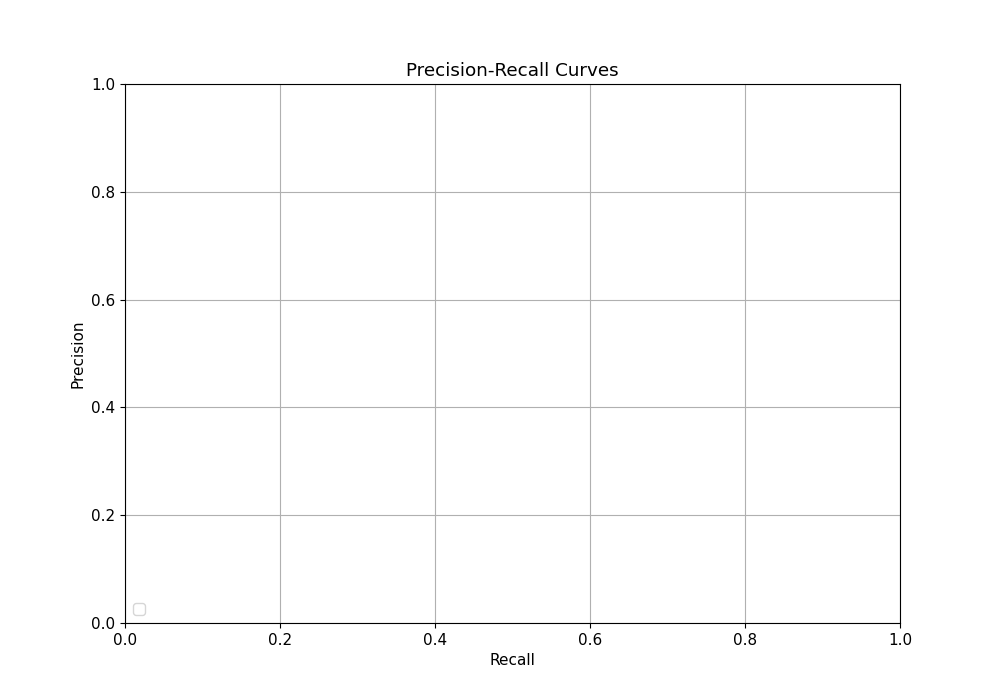
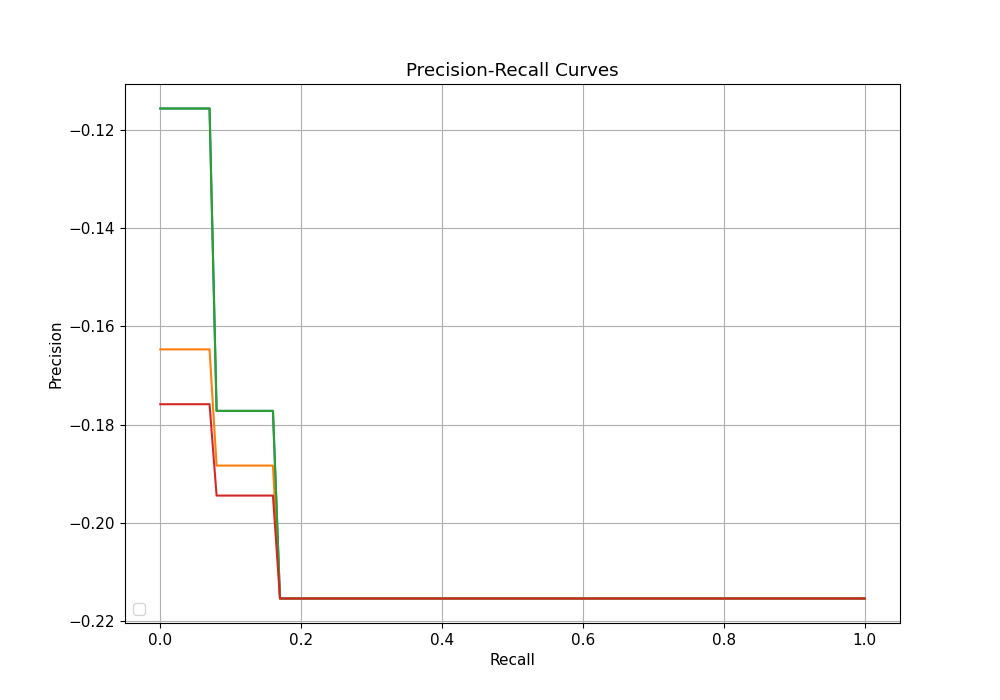
calculating f1 works

diff --git a/run_model.py b/run_model.py
@@ -164,7 +164,6 @@ class ObjectDetectorEnsemble:
             gt_paths = [os.path.join(gt_folder, f) for f in os.listdir(gt_folder) if f.endswith('.txt') or f.endswith('.xml')]
             bbox_list, label_list = [], []
             for file in gt_paths:
-                #ALREADY IN COCO FORMAT HERE
                 bboxes, labels = self.read_yolo_groundtruth_file(file)
                 bbox_list.append(bboxes)
                 label_list.append(labels)
@@ -273,22 +272,7 @@ class ObjectDetectorEnsemble:
         x_center = x_min + width / 2
         y_center = y_min + height / 2
 
-        return [x_center, y_center, width, height]
-
-    def denormalize_bboxes_array(self, bboxes_array, img_shapes):
-        denormalized_bboxes_array = []
-        for bboxes, (original_height, original_width) in zip(bboxes_array, img_shapes):
-            denormalized_bboxes = []
-            for bbox in bboxes:
-                x1, y1, x2, y2 = bbox
-                x1 = x1 * original_width
-                y1 = y1 * original_height
-                x2 = x2 * original_width
-                y2 = y2 * original_height
-                denormalized_bbox = [x1, y1, x2, y2]
-                denormalized_bboxes.append(denormalized_bbox)
-            denormalized_bboxes_array.append(np.array(denormalized_bboxes))
-        return denormalized_bboxes_array        
+        return [x_center, y_center, width, height]      
     
     #picks and runs ensemble on ONE img
     #should return the new bboxes, labels, and scores for that img TBC!!
@@ -377,12 +361,8 @@ class ObjectDetectorEnsemble:
                 label, x_center, y_center, width, height, score = int(data[0]), float(data[1]), float(data[2]), float(data[3]), float(data[4]), float(data[5])
                 
                 # Convert x_center, y_center, width, height to xmin, ymin, xmax, ymax
-                xmin = x_center - width / 2
-                ymin = y_center - height / 2
-                xmax = x_center + width / 2
-                ymax = y_center + height / 2
                 
-                boxes.append([xmin, ymin, xmax, ymax])
+                boxes.append([x_center, y_center, width, height])
                 scores.append(score)
                 labels.append(label)
         
@@ -520,14 +500,62 @@ class ObjectDetectorEnsemble:
         #print("Predictions:", len(dt_coco.dataset['annotations']))
         #print("Examples:", dt_coco.dataset['annotations'][:5])
         coco_eval = COCOeval(gt_coco, dt_coco, iouType='bbox')
+        coco_eval.params.iouThrs = np.linspace(0.1, 0.95, num=18)
+
+        # Set new area range and max detections per image
+        #new_area_ranges = [[0 ** 2, 1e5 ** 2]]  # Single area range covering all sizes
+        #new_max_detections = [15, 15, 15]  # Max 15 detections per image
+
+        #coco_eval.params.areaRng = new_area_ranges
+        #coco_eval.params.maxDets = new_max_detections
 
         coco_eval.evaluate()
         coco_eval.accumulate()
         coco_eval.summarize()
 
-        precision = coco_eval.stats[0]
-        recall = coco_eval.stats[1]
-        f1_score = 2 * (precision * recall) / (precision + recall)
+        iou_thresholds = coco_eval.params.iouThrs
+        conf_thresholds = coco_eval.params.recThrs
+        precision = coco_eval.eval['precision']
+        recall = coco_eval.eval['recall']
+        confidences = coco_eval.eval['scores']
+        print(precision.shape)
+        print(recall.shape)
+        
+        TP = recall * precision.shape[1]
+        FN = precision.shape[1] - TP
+
+        # Calculate recall at each confidence level
+        recall_at_confidence = np.zeros((precision.shape[0], precision.shape[1], precision.shape[2], precision.shape[3], precision.shape[4]))
+
+        for t in range(precision.shape[0]):
+            for r in range(precision.shape[1]):
+                for k in range(precision.shape[2]):
+                    for a in range(precision.shape[3]):
+                        for m in range(precision.shape[4]):
+                            tp = TP[t, k, a, m]
+                            fn = FN[t, k, a, m]
+                            recall_at_confidence[t, r, k, a, m] = tp / (tp + fn + 1e-6)
+        print(recall_at_confidence.shape)
+        
+        f1_scores_confidences = []
+        #describes the iou value where the highest f1 range for prediction recide.
+        iou_index_max_conf = 0
+        max_f1= 0
+        for iou in range(precision.shape[0]):
+            iou_f1 = []
+            for i in range(precision.shape[1]):
+                p = np.mean(precision[iou, i, 0, :, 0])
+                r = np.mean(recall_at_confidence[iou, i, 0, :, 0])
+                f1 =  (2 * p *  r)/(p+r)
+                iou_f1.append(f1)
+                if f1 > max_f1:
+                    max_f1 = f1
+                    iou_index_max_conf =iou
+            f1_scores_confidences.append(iou_f1)
+
+        # Create a list of confidence levels.
+        confidence_levels = np.linspace(0, 1, 101)
+        return max_f1, iou_index_max_conf, confidence_levels, f1_scores_confidences
     
     def yolo_to_coco(self, yolo_bbox, img_width, img_height):
         x_center, y_center, width, height = yolo_bbox
